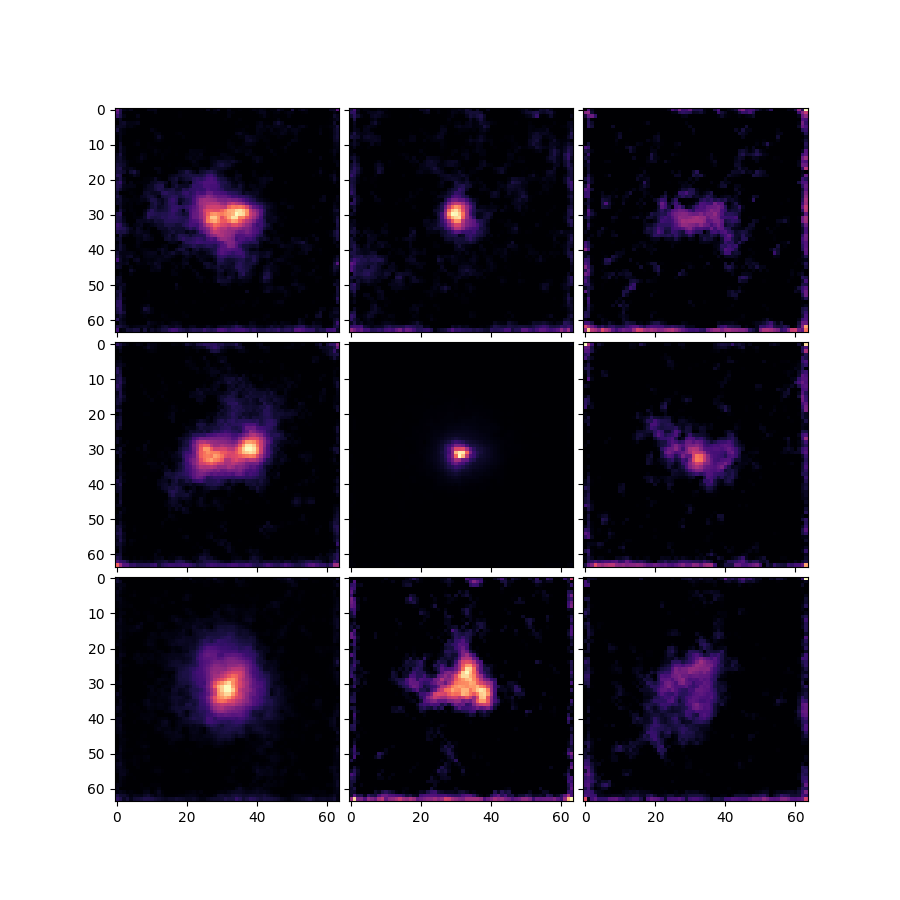
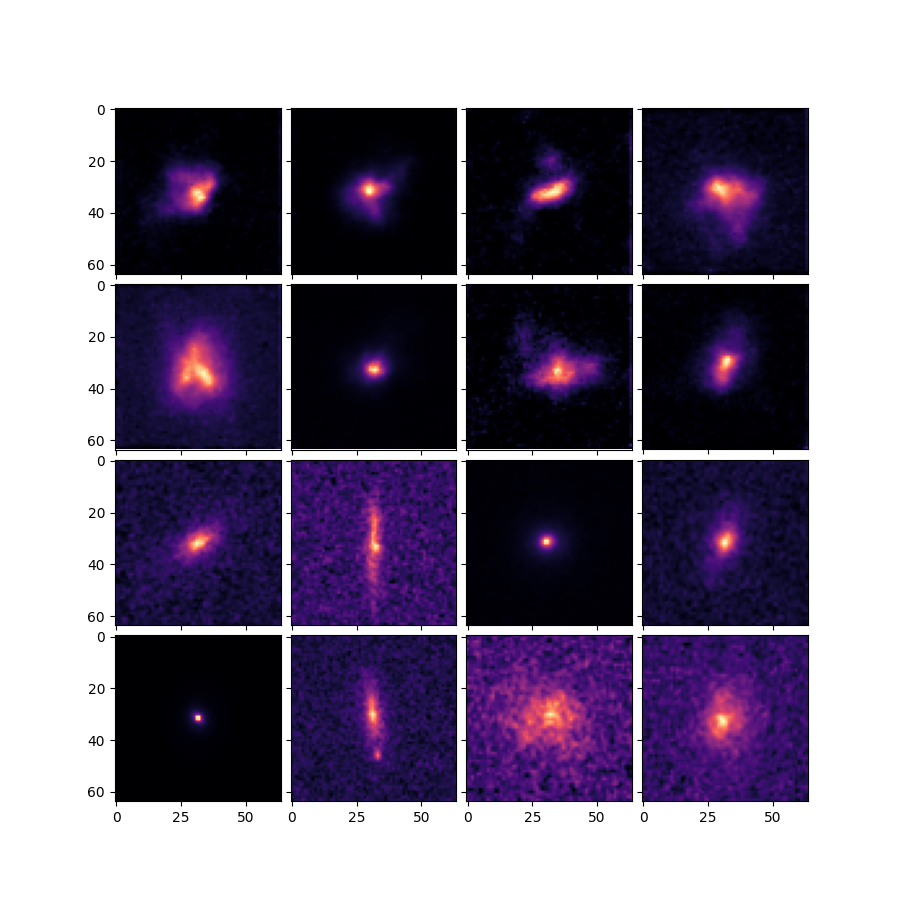
update results

diff --git a/train.py b/train.py
@@ -56,8 +56,9 @@ LGD = LitDiffusion.load_from_checkpoint(ckpt, diffusion=diffusion)
 dataset = torch.tensor(galaxy_images_cropped_downsampled).unsqueeze(1).float()
 train_loader = utils.data.DataLoader(dataset, batch_size=100, shuffle=True)
 
+epochs = 0
 checkpoint_callback = ModelCheckpoint(monitor="train_loss")
-trainer = pl.Trainer(gpus=-1, max_epochs=50, strategy='ddp_find_unused_parameters_false', callbacks=[checkpoint_callback], limit_train_batches=50)
+trainer = pl.Trainer(gpus=-1, max_epochs=epochs, strategy='ddp_find_unused_parameters_false', callbacks=[checkpoint_callback], limit_train_batches=50)
 trainer.fit(model=LGD, train_dataloaders=train_loader)
 
 
@@ -65,11 +66,13 @@ trainer.fit(model=LGD, train_dataloaders=train_loader)
 diffusion = LGD.diffusion.cuda()
 diffusion.eval()
 
-sampled_images = diffusion.sample(batch_size = 9).squeeze().cpu().detach().numpy()
+sampled_images = diffusion.sample(batch_size = 8).squeeze().cpu().detach().numpy()
+real_images = galaxy_images_cropped_downsampled[np.random.randint(len(galaxy_images_cropped_downsampled), size=8)]
+images = np.concatenate([sampled_images, real_images], axis=0)
 
 from mpl_toolkits.axes_grid1 import ImageGrid
 fig = plt.figure(figsize=(9., 9.))
-grid = ImageGrid(fig, 111, nrows_ncols=(3, 3),axes_pad=0.1,)
-for ax, im in zip(grid, sampled_images):
+grid = ImageGrid(fig, 111, nrows_ncols=(4, 4),axes_pad=0.1,)
+for ax, im in zip(grid, images):
     ax.imshow(im, cmap='magma')
 plt.savefig('results.png')
